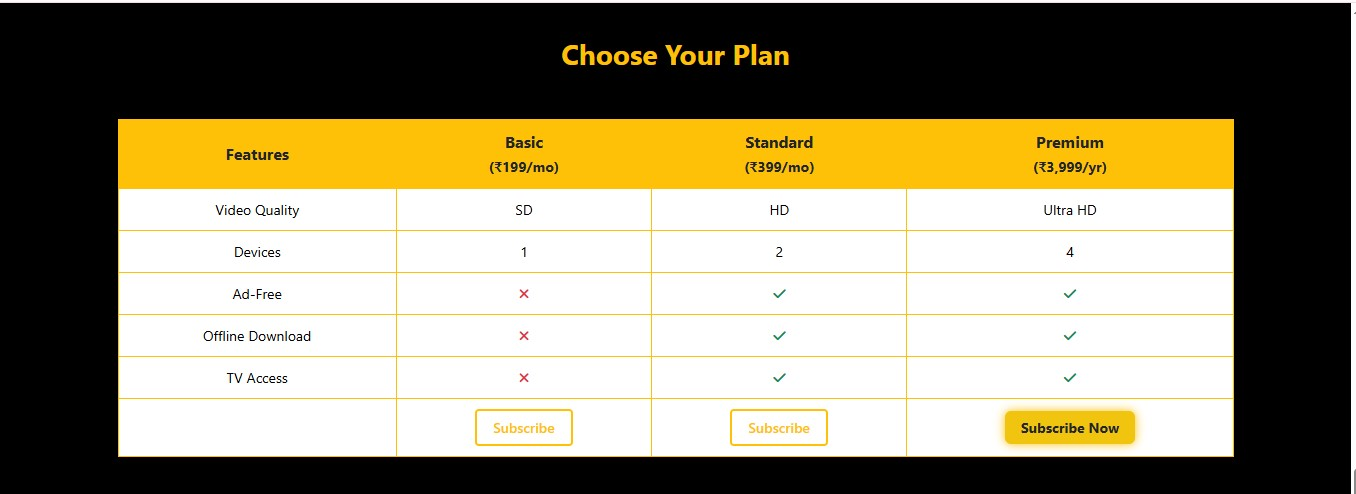
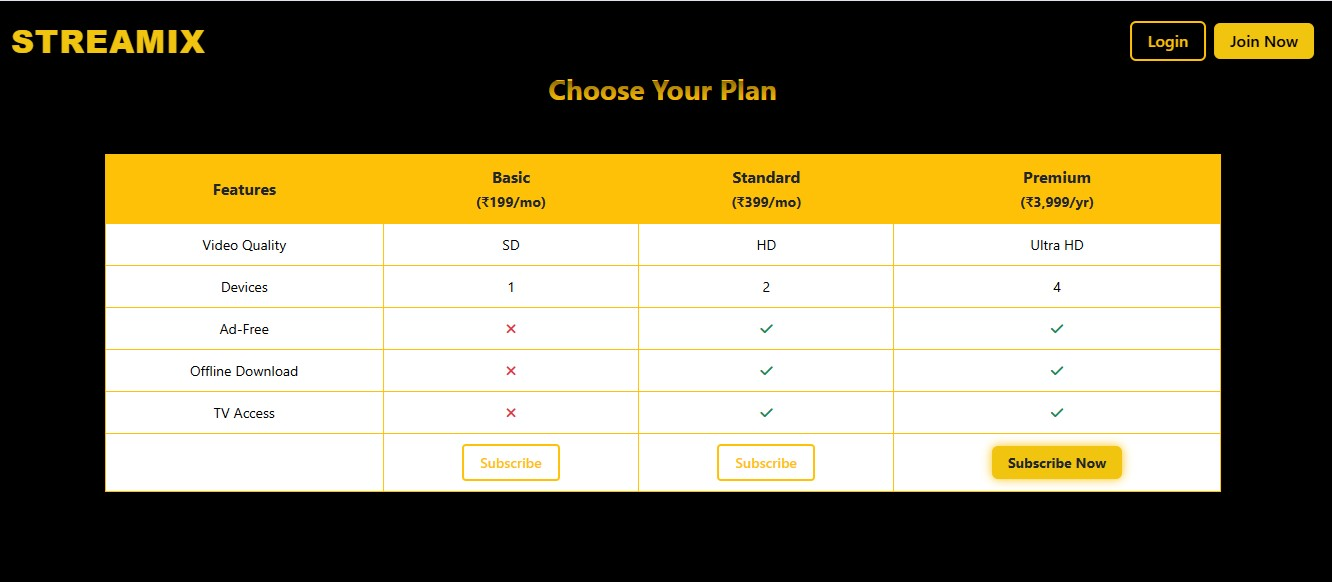
Your commit message here

diff --git a/index.html b/index.html
@@ -3,7 +3,7 @@
 <head>
   <meta charset="UTF-8" />
   <meta name="viewport" content="width=device-width, initial-scale=1.0"/>
-  <title>Cinema Pattarai</title>
+  <title>Streamix</title>
 
   <!-- Standard favicon -->
   <link rel="icon" type="image/png" href="Images/Hello23.png" sizes="32x32" />
@@ -39,7 +39,7 @@
 <!-- ✅ Navbar -->
 <div class="bg-overlay">
   <nav id="navbar" class="netflix-navbar d-flex justify-content-between align-items-center px-4 py-3 position-fixed w-100">
-    <div class="navbar-brand">Cinema Pattarai</div>
+    <div class="navbar-brand">Streamix</div>
     <div class="d-flex align-items-center gap-2">
       <button class="btn btn-outline-warning px-3" data-bs-toggle="modal" data-bs-target="#loginModal">Login</button>
       <button class="btn btn-warning text-black px-3" data-bs-toggle="modal" data-bs-target="#registerModal">Join Now</button>
@@ -61,7 +61,7 @@
 
     <!-- 🌍 Subtext -->
     <p class="lead mb-2 animate__animated animate__fadeInUp">
-      From timeless blockbusters – only on <strong>Cinema Pattarai</strong>.
+      From timeless blockbusters – only on <strong>Streamix</strong>.
     </p>
 
     <!-- 🎁 Offer Message -->
